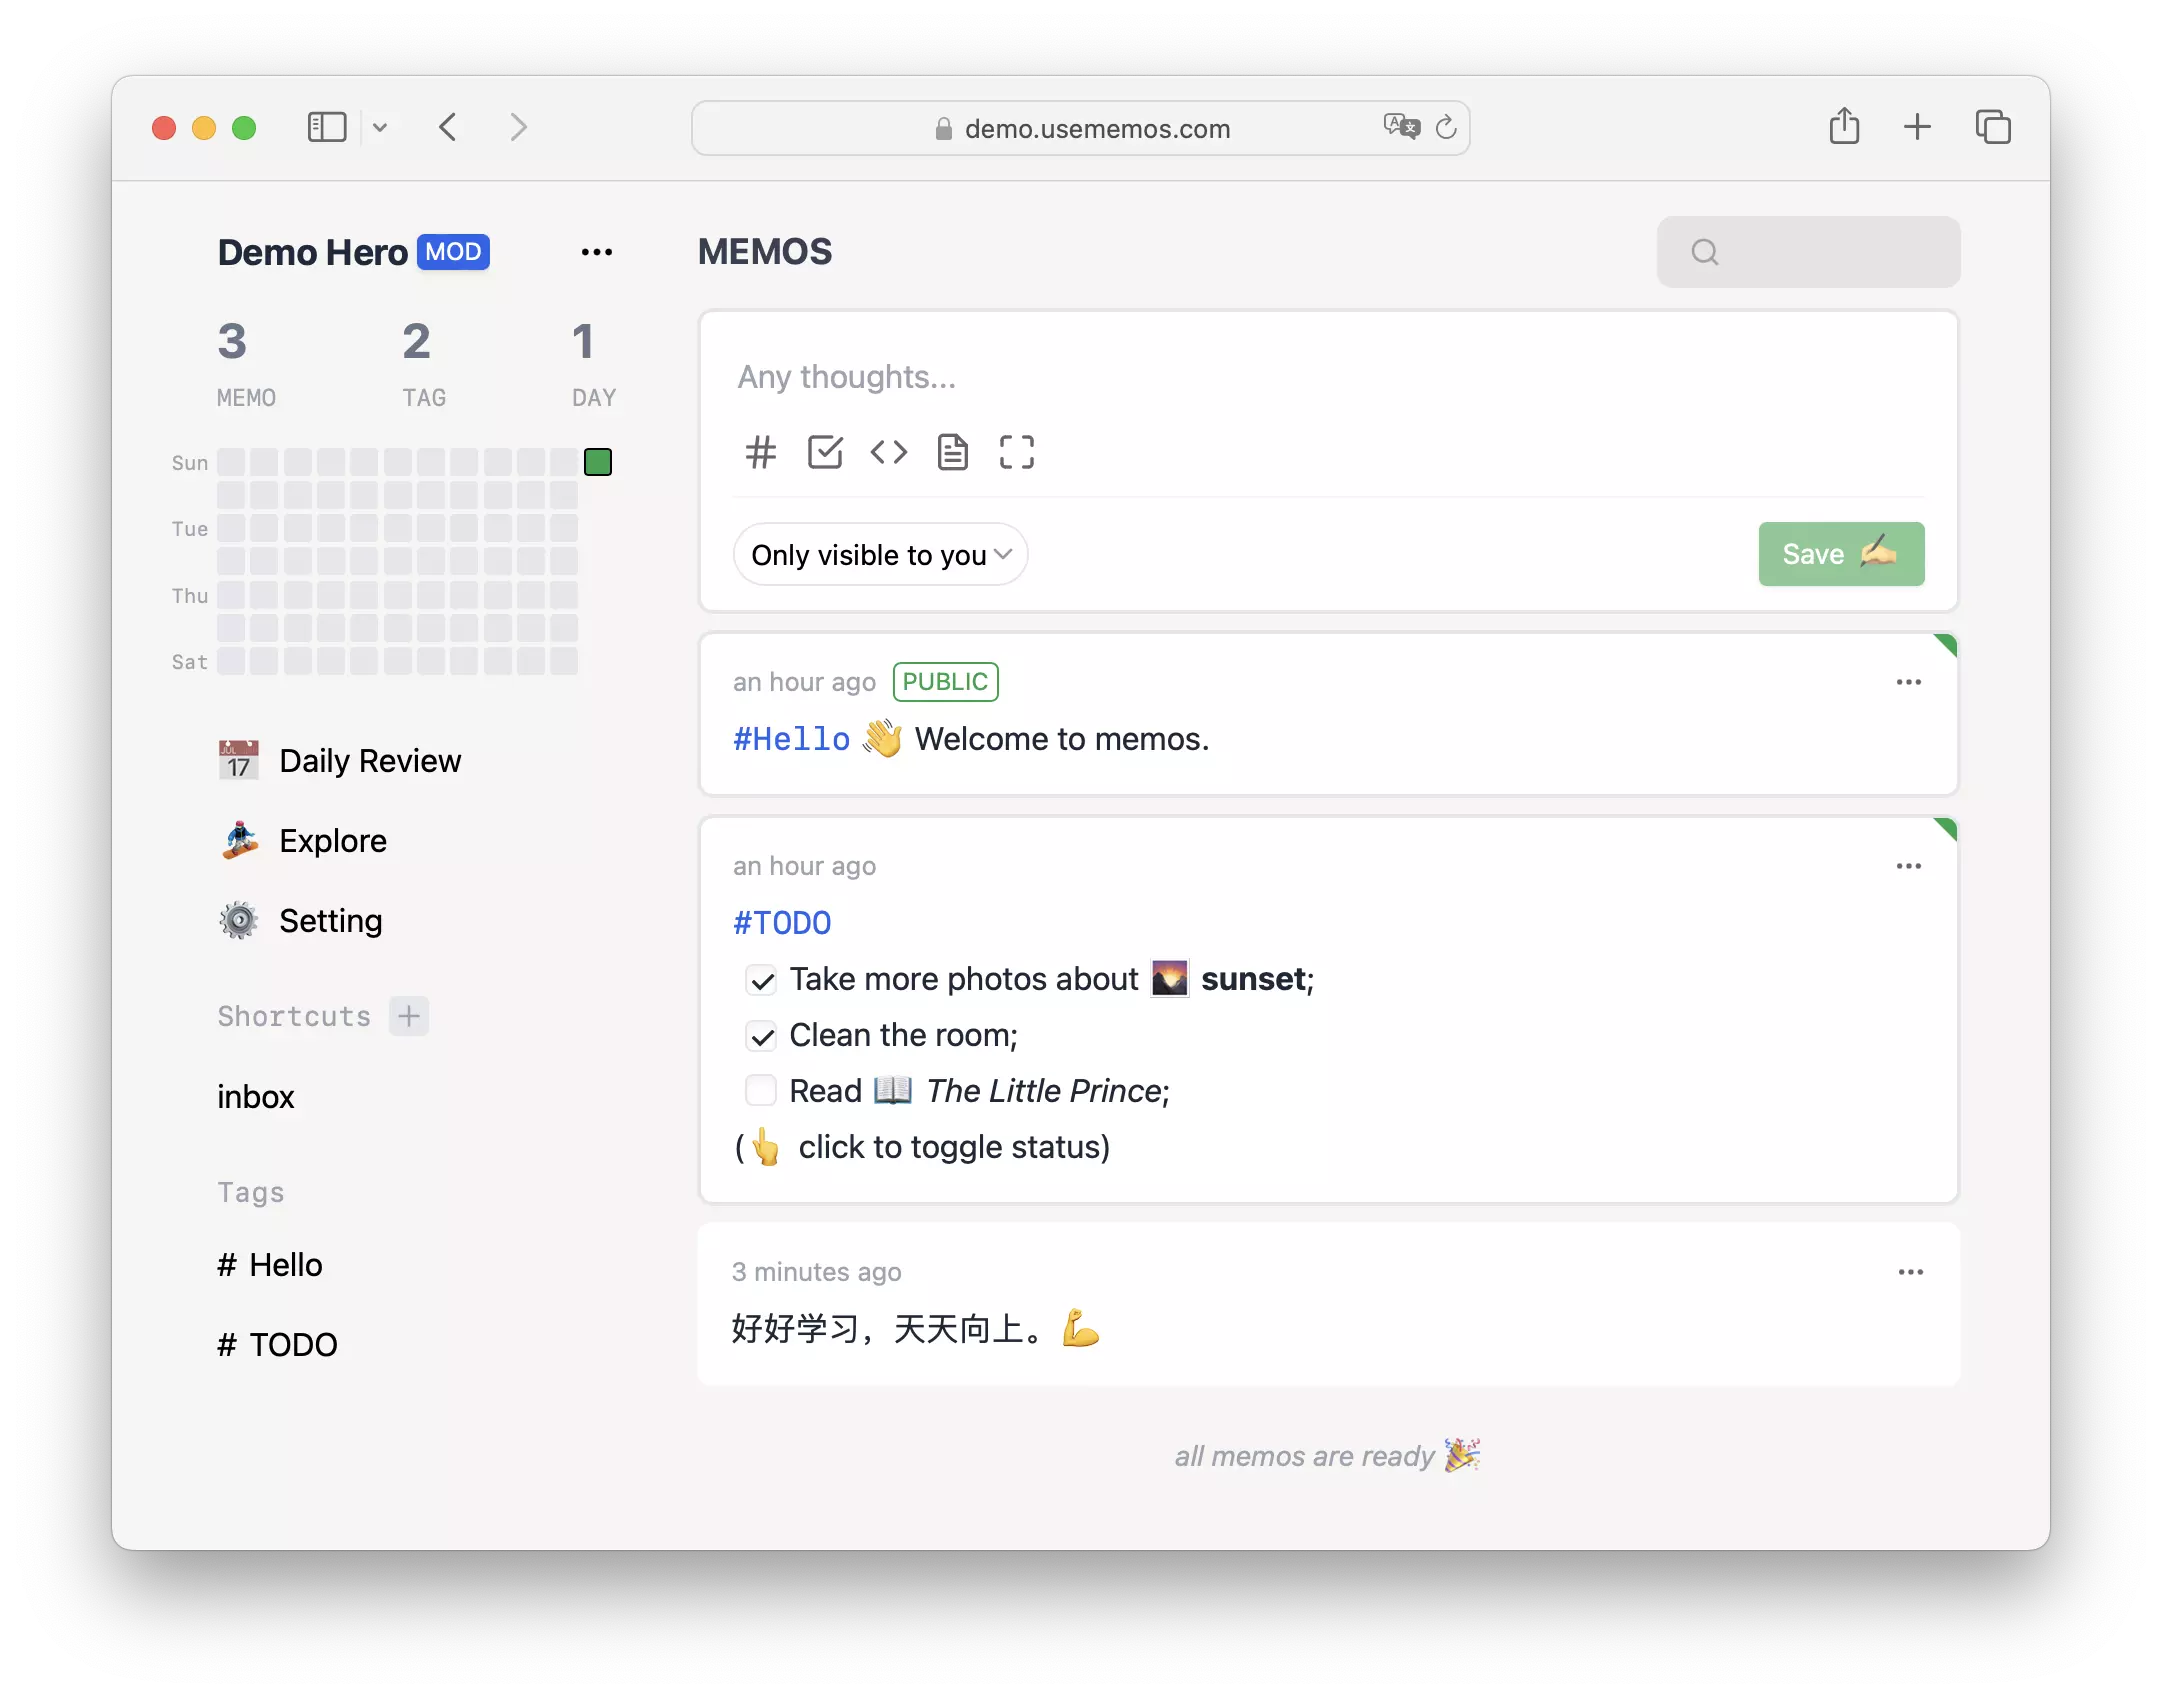
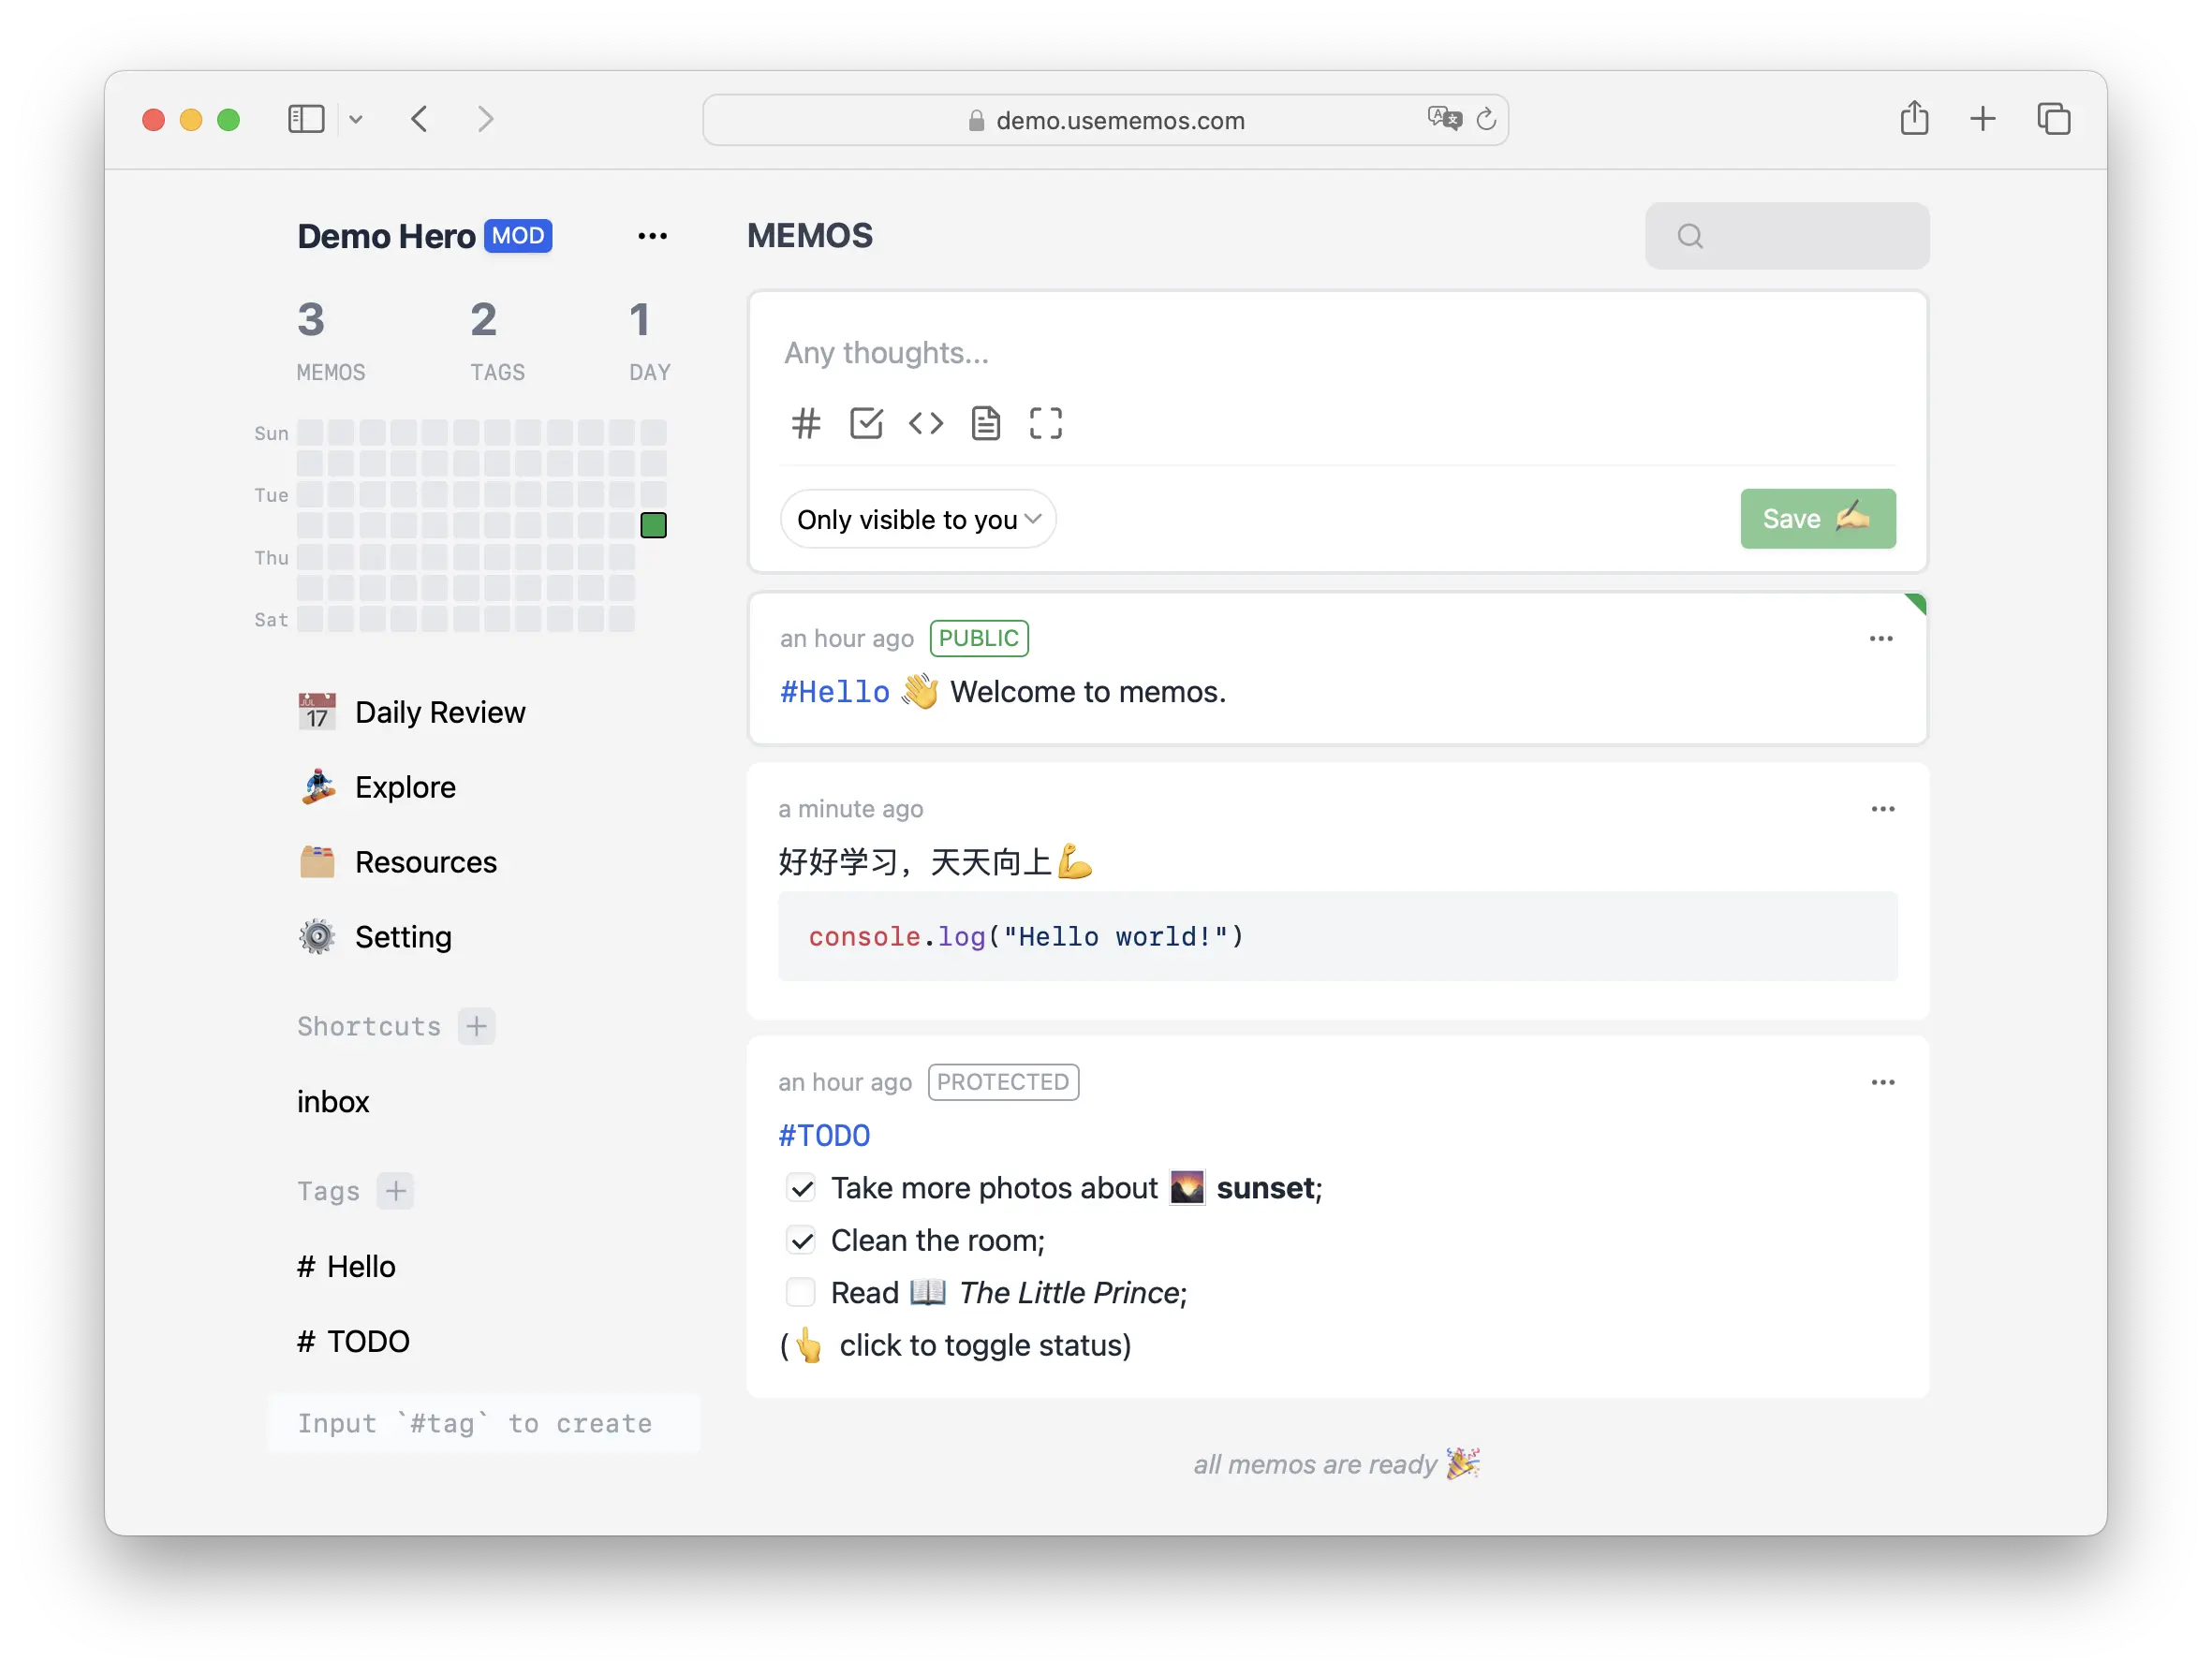
chore: update readme with dark mode demo (#1049)

diff --git a/README.md b/README.md
@@ -11,7 +11,9 @@
   Discuss in <a href="https://t.me/+-_tNF1k70UU4ZTc9">Telegram</a> / <b><a href="https://discord.gg/tfPJa4UmAv">Discord 🏂</a></b>
 </p>
 
-![demo](./resources/demo.webp)
+![demo](./resources/demo.webp#gh-light-mode-only)
+
+![demo-dark](./resources/demo-dark.webp#gh-dark-mode-only)
 
 ## Features
 